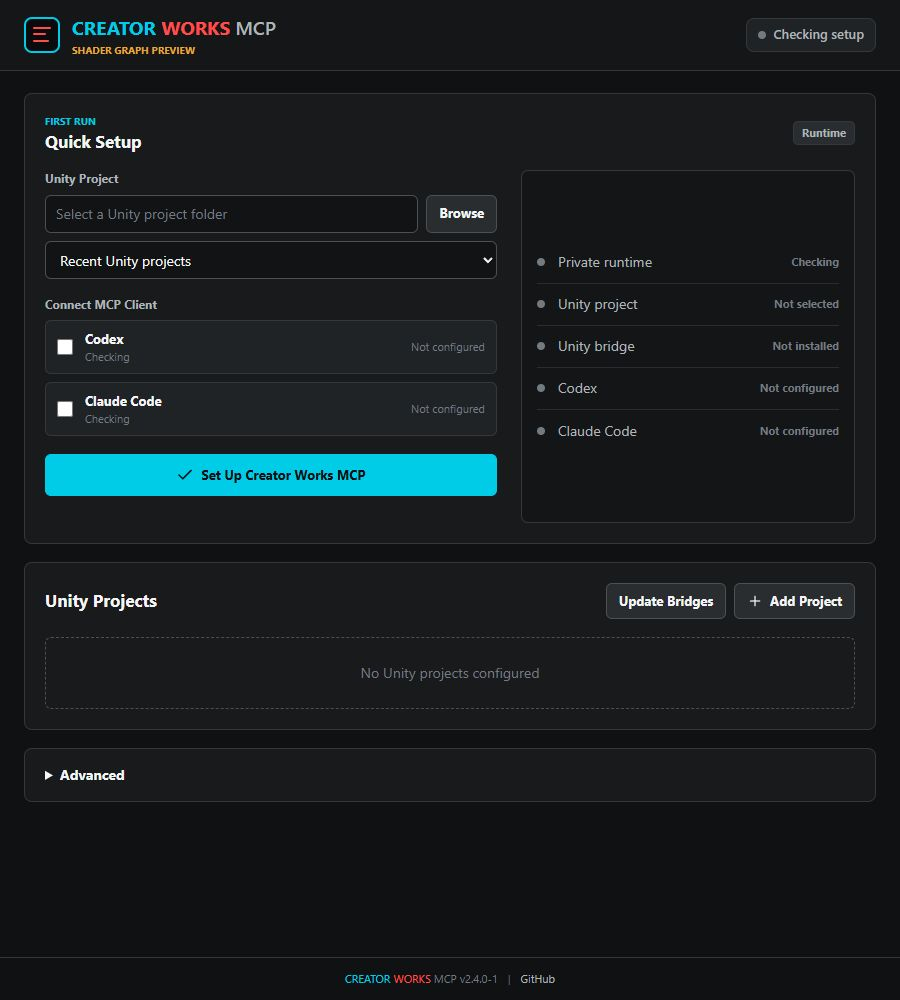
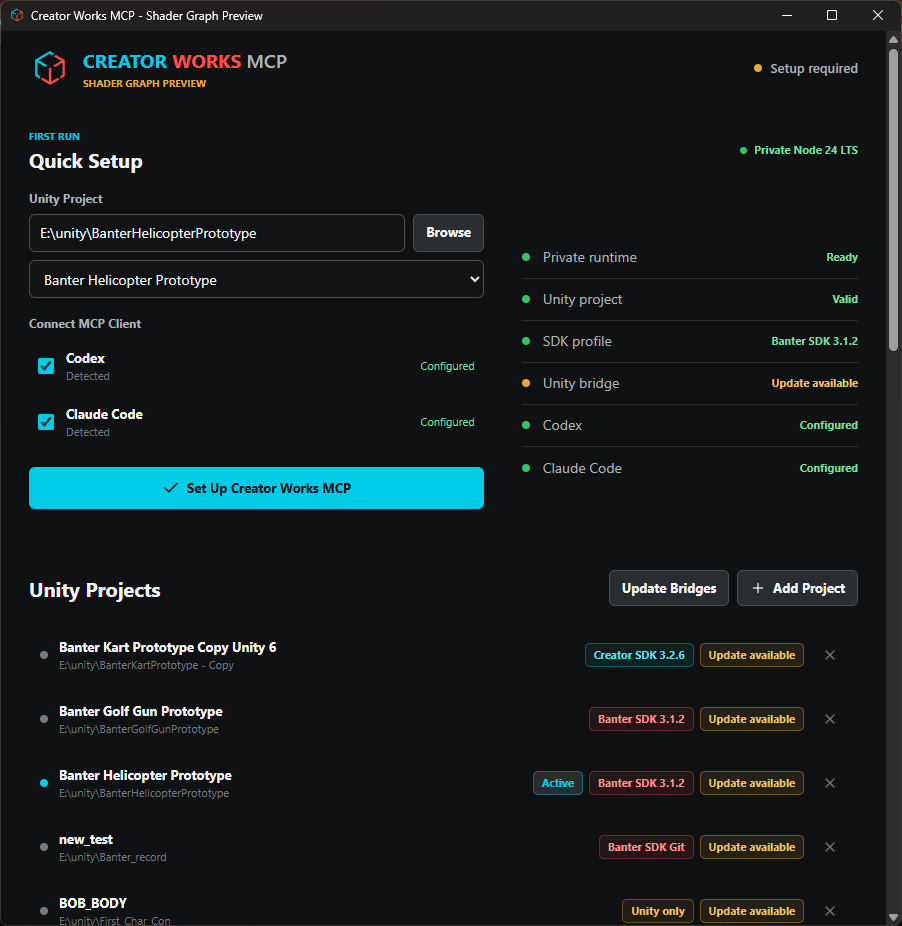
docs: refresh Creator Works release overview

diff --git a/README.md b/README.md
@@ -2,7 +2,9 @@
 
 A Model Context Protocol (MCP) server and Unity Editor bridge for Unity development, with first-class support for both the SideQuest Creator SDK/BS contract and the legacy Banter SDK. It gives Codex, Claude Code, and other compatible MCP clients awareness of a selected Unity project, with tools to create Visual Scripting graphs, WebRoot JavaScript, and more.
 
-> **Shader Graph preview:** Version `2.4.0-2` is an experimental build for Aline. It includes the clean-room Shader Graph authoring branch and the dual SideQuest SDK transition support described below. Use disposable or version-controlled test projects until the remaining compatibility matrix and mutation-safety review are complete.
+> **Current preview:** [Creator Works MCP `2.4.0-2`](https://github.com/BOBWORKS-XR/CREATOR-WORKS-UNITY-MCP/releases/tag/v2.4.0-2) is the public Windows preview. It includes the Creator Works rebrand, migration from BANTWORKS MCP, dual SideQuest Creator/Banter SDK awareness, and the clean-room Shader Graph authoring work described below.
+>
+> Shader Graph mutation remains experimental. Use disposable or version-controlled test projects until the remaining compatibility matrix and mutation-safety review are complete.
 
 ## Client Compatibility
 
@@ -68,13 +70,13 @@ The provisioner generates a plain Unity or Banter event graph through the MCP co
 - Node.js 20 or later only when using the standalone ZIP, PowerShell setup, or source checkout.
 - A Unity project root containing `Assets`.
 - The SideQuest Creator SDK or legacy Banter SDK for its components, custom Visual Scripting nodes, and WebRoot use. Generic Unity tools remain available without either package.
-- Unity 6000.3.10f1 is the latest editor version verified with the generic bridge. Experimental Shader Graph authoring is acceptance-tested with Unity 2022.3.39f1/Shader Graph 14.0.11, Unity 6000.1.14f1/Shader Graph 17.1.0, and Unity 6000.3.10f1/Shader Graph 17.3.0; other combinations fail closed unless their required internal API signatures are detected. On Unity 6000.3.2f1, the public Banter SDK 3.2.2 release passes generated graph import, `ScriptMachine.nest.macro` persistence, and SDK allow-list checks; public releases 3.0.2 and 3.1.2 have confirmed Unity 6 material-API compilation failures. Banter 3.1.2 separately passes the obstacle harness on Unity 2022.3.39f1. The bundled Visual Scripting manual is based on Unity 6000.3.2f1; validate generated graphs against the exact Unity and Banter SDK version used by the project.
+- The exact `2.4.0-2` bridge compiled with zero new C# errors in isolated Unity 2022.3.39f1 and Unity 6000.3.21f1 projects. The broader generic bridge workflow is verified through Unity 6000.3.10f1. Experimental Shader Graph authoring is acceptance-tested with Unity 2022.3.39f1/Shader Graph 14.0.11, Unity 6000.1.14f1/Shader Graph 17.1.0, and Unity 6000.3.10f1/Shader Graph 17.3.0; other combinations fail closed unless their required internal API signatures are detected. On Unity 6000.3.2f1, the public Banter SDK 3.2.2 release passes generated graph import, `ScriptMachine.nest.macro` persistence, and SDK allow-list checks; public releases 3.0.2 and 3.1.2 have confirmed Unity 6 material-API compilation failures. Banter 3.1.2 separately passes the obstacle harness on Unity 2022.3.39f1. The bundled Visual Scripting manual is based on Unity 6000.3.2f1; validate generated graphs against the exact Unity and SideQuest SDK version used by the project.
 
 ## Quick Start
 
 ### 1. Install Creator Works MCP
 
-Download and run the Windows setup executable from the latest GitHub release. It includes the versioned MCP server, Unity bridge, and a checksum-verified private Node.js runtime; a separate Node.js installation and source checkout are not required.
+Download and run `Creator.Works.MCP_2.4.0-2_x64-setup.exe` from the [Creator Works MCP 2.4.0-2 preview release](https://github.com/BOBWORKS-XR/CREATOR-WORKS-UNITY-MCP/releases/tag/v2.4.0-2). It includes the versioned MCP server, Unity bridge, and a checksum-verified private Node.js runtime; a separate Node.js installation and source checkout are not required.
 
 Verify downloaded artifacts against the release's `SHA256SUMS.txt`. Builds that are not Authenticode-signed can show an **Unknown publisher** or Microsoft Defender SmartScreen warning; a matching checksum verifies file integrity but does not replace publisher identity signing.
 
@@ -86,7 +88,7 @@ When upgrading from **BANTWORKS MCP**, install and open Creator Works MCP before
 
 ![Creator Works MCP guided Windows launcher](docs/images/creator-works-mcp-guided-launcher.png)
 
-*The guided launcher manages the private runtime, MCP client configuration, Unity projects, and project-local bridge updates.*
+*A configured launcher showing the private runtime, Codex and Claude Code connections, the active Unity project, detected Creator SDK/Banter SDK/Unity-only profiles, and per-project bridge status. Amber **Update available** labels mean those project-local bridge copies should be refreshed; they are not SDK compile or runtime results.*
 
 Bridge copies are project-local. The launcher compares every configured project against its bundled bridge, labels stale copies as **Update available**, and provides **Update Bridges** to back up and refresh all configured projects in one action.
 
@@ -379,7 +381,7 @@ public release and writes an ignored JSON evidence report under `artifacts/`.
 Expected incompatibilities only satisfy the matrix when their exact compiler
 diagnostics recur.
 
-The GitHub Actions workflow runs the Node test suite and standalone-bundle smoke on Node 20, 22, and 24, plus the dependency audit and Tauri launcher tests. Version tags build draft NSIS/MSI releases and a standalone ZIP. See [CONTRIBUTING.md](CONTRIBUTING.md) for change requirements, [SECURITY.md](SECURITY.md) for vulnerability reporting, [docs/compatibility.md](docs/compatibility.md) for the verified matrix, and [docs/bridge-protocol.md](docs/bridge-protocol.md) for the local Unity bridge contract.
+The GitHub Actions workflow runs the Node test suite and standalone-bundle smoke on Node 20, 22, and 24, plus the dependency audit and Tauri launcher tests. Version tags build draft NSIS/MSI releases and a standalone ZIP. The `2.4.0-2` release gate passed 118 Node tests and 13 native launcher tests; the published assets were downloaded again and matched `SHA256SUMS.txt`. Hosted Creator/Greenfield behavior, headset behavior, and multiplayer behavior remain separate runtime acceptance gates. See [CONTRIBUTING.md](CONTRIBUTING.md) for change requirements, [SECURITY.md](SECURITY.md) for vulnerability reporting, [docs/compatibility.md](docs/compatibility.md) for the verified matrix, and [docs/bridge-protocol.md](docs/bridge-protocol.md) for the local Unity bridge contract.
 
 The evidence-based capability comparison and ordered roadmap are maintained in [docs/unity-mcp-benchmark.md](docs/unity-mcp-benchmark.md).
 
